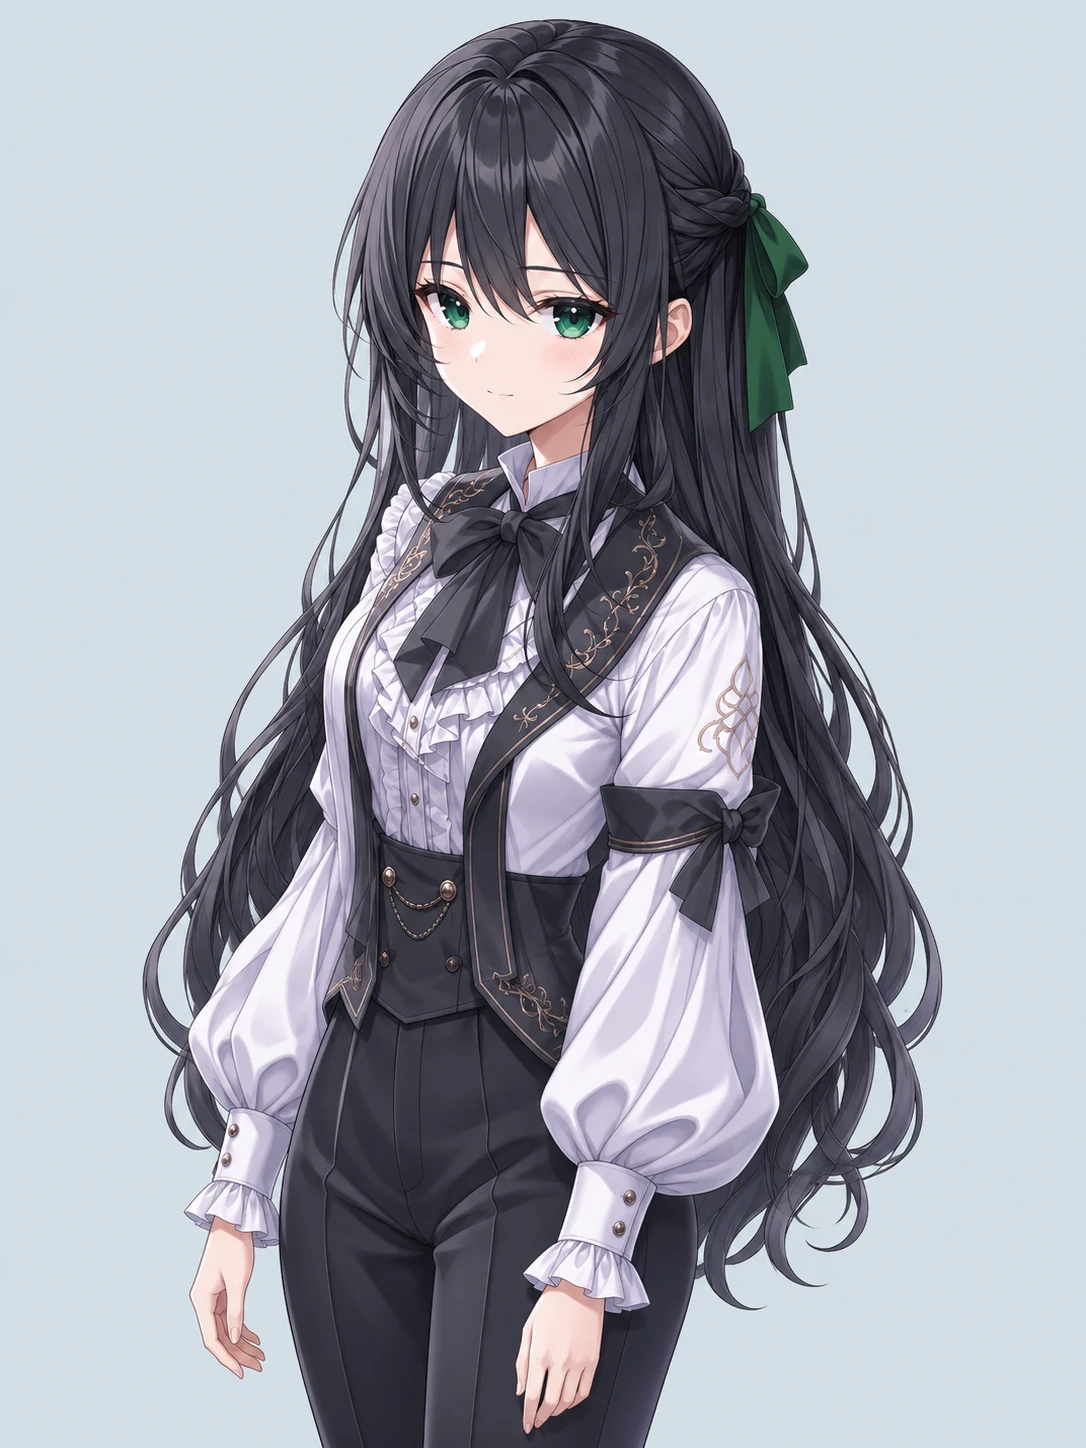
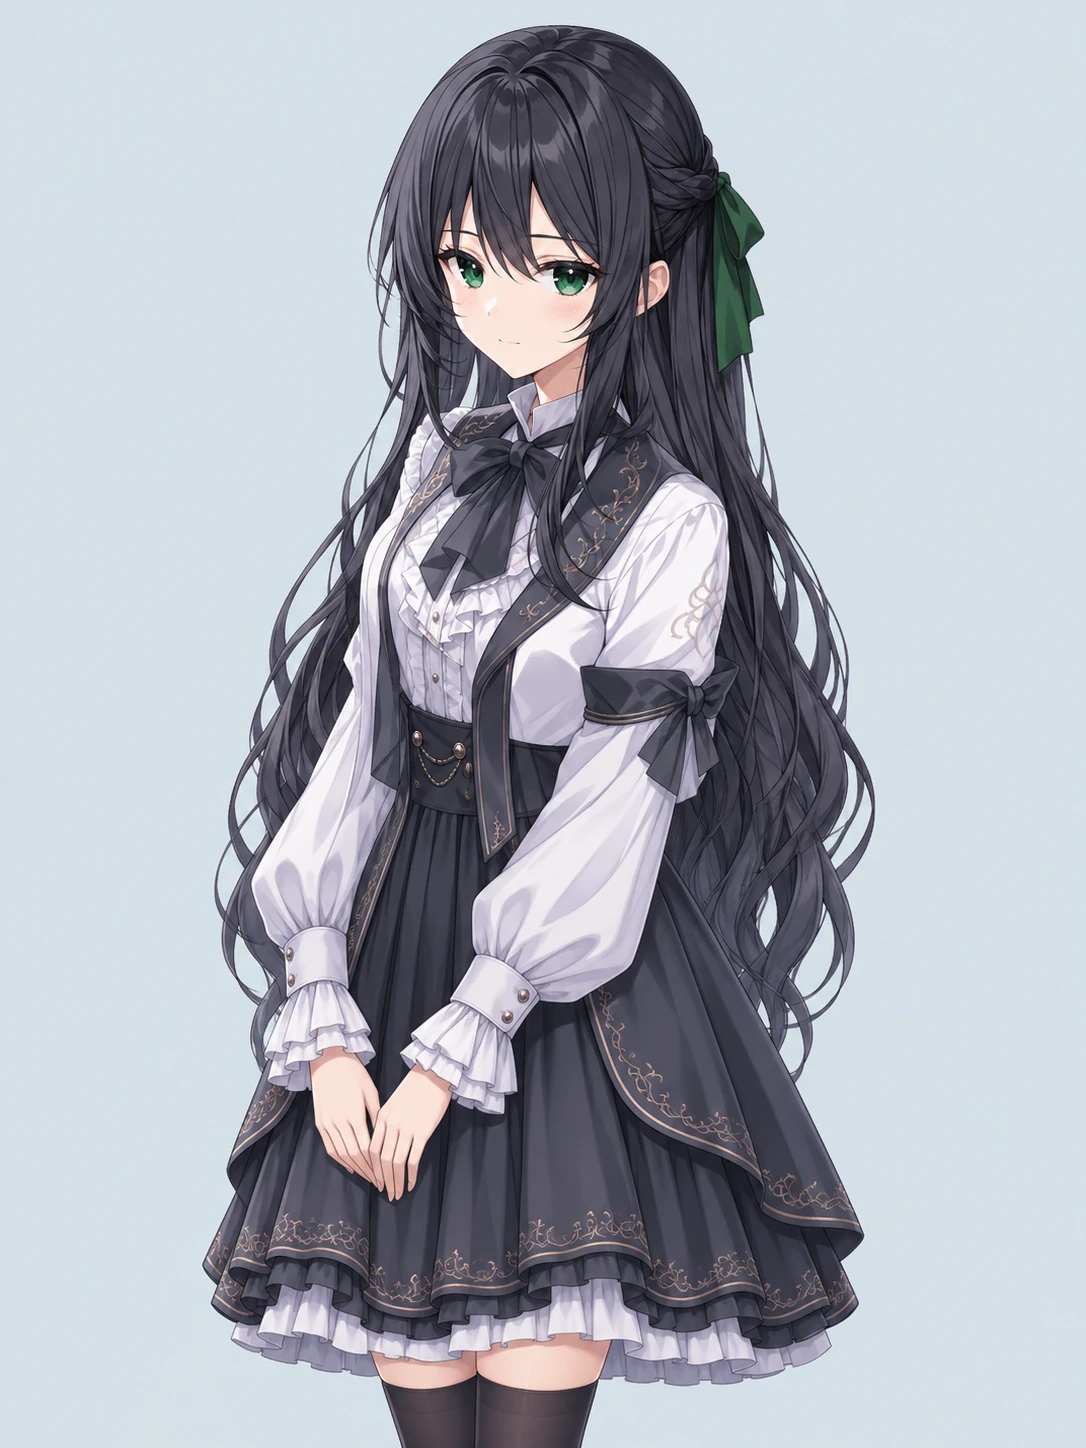
chore(preview): publish batch_1_tq_5chars three-quarter 5x5 portrait picker

diff --git a/portrait-picker/index.html b/portrait-picker/index.html
@@ -3,7 +3,7 @@
 <head>
 <meta charset="UTF-8">
 <meta name="viewport" content="width=device-width, initial-scale=1.0">
-<title>Batch 1B · 希尔维亚幼年/少年/伪装（中景 medium shot 实测 · 5 选 1）</title>
+<title>四分之三身像全重抽（5 角色 × 5 选 1）</title>
 <style>
 /* ==========================================================================
    《转生千金》立绘 5 选 1 交互审图工坊 · 棱镜冰晶雪瓷视觉体系
@@ -2172,7 +2172,7 @@ body.view-large .btn-zoom .zoom-txt {
 
 <div class="toast" id="toast" role="status" aria-live="polite"></div>
 
-<script id="showcase-data" type="application/json">{"batch_id":"batch_1b","batch_label":"Batch 1B","title":"Batch 1B · 希尔维亚幼年/少年/伪装（中景 medium shot 实测 · 5 选 1）","subtitle":"纯正向 medium shot 中景延展实测 · 原比例参考底图 · 伪装版 2× 高清重绘 · 每角 5 选 1","characters":[{"id":"sylvia_child_normal","name":"希尔维亚 · 幼年期","role_tag":"核心女主 · 幼年阶段","sample_line":"阿姐、爱丽丝，今天的红茶点心可以多拿一块吗？","original":{"src":"img/sylvia_child_normal/original.webp","defect":"原图 2:3 仅画至腰际裙头，袖口蝴蝶结卡在底边","metrics":{"width":1024,"height":1536,"aspect":"2:3","margin_l":10.4,"margin_r":10.0,"margin_t":3.3,"margin_b":0.0,"bg_std":0.0,"bg_hex":"transparent","is_transparent":true}},"candidates":[{"index":1,"label":"#01","src":"img/sylvia_child_normal/cand_01.webp","tag":"中景实测 #01","note":"纯正向 medium shot 中景自然延展","metrics":{"width":1086,"height":1448,"aspect":"3:4","margin_l":19.9,"margin_r":21.1,"margin_t":2.4,"margin_b":0.0,"bg_std":0.6,"bg_hex":"#BDD8F2","is_transparent":false}},{"index":2,"label":"#02","src":"img/sylvia_child_normal/cand_02.webp","tag":"中景实测 #02","note":"纯正向 medium shot 中景自然延展","metrics":{"width":1086,"height":1448,"aspect":"3:4","margin_l":19.1,"margin_r":20.5,"margin_t":1.6,"margin_b":0.0,"bg_std":0.6,"bg_hex":"#BFD9F3","is_transparent":false}},{"index":3,"label":"#03","src":"img/sylvia_child_normal/cand_03.webp","tag":"中景实测 #03","note":"纯正向 medium shot 中景自然延展","metrics":{"width":1086,"height":1448,"aspect":"3:4","margin_l":16.9,"margin_r":17.7,"margin_t":2.3,"margin_b":0.0,"bg_std":0.7,"bg_hex":"#C0DBF4","is_transparent":false}},{"index":4,"label":"#04","src":"img/sylvia_child_normal/cand_04.webp","tag":"中景实测 #04","note":"纯正向 medium shot 中景自然延展","metrics":{"width":1086,"height":1448,"aspect":"3:4","margin_l":18.1,"margin_r":19.2,"margin_t":1.4,"margin_b":0.0,"bg_std":0.6,"bg_hex":"#C0D9F2","is_transparent":false}},{"index":5,"label":"#05","src":"img/sylvia_child_normal/cand_05.webp","tag":"中景实测 #05","note":"纯正向 medium shot 中景自然延展","metrics":{"width":1086,"height":1448,"aspect":"3:4","margin_l":21.0,"margin_r":23.2,"margin_t":2.2,"margin_b":0.0,"bg_std":0.6,"bg_hex":"#BFD9F2","is_transparent":false}}]},{"id":"sylvia_young_normal","name":"希尔维亚 · 少年期","role_tag":"核心女主 · 少年阶段","sample_line":"冰晶的魔力回路其实很听话，只要静下心来引导就好。","original":{"src":"img/sylvia_young_normal/original.webp","defect":"原图仅到腰下，左右飘散银发丝与披肩边缘紧贴画框","metrics":{"width":1086,"height":1448,"aspect":"3:4","margin_l":1.5,"margin_r":1.8,"margin_t":2.9,"margin_b":0.0,"bg_std":0.0,"bg_hex":"transparent","is_transparent":true}},"candidates":[{"index":1,"label":"#01","src":"img/sylvia_young_normal/cand_01.webp","tag":"中景实测 #01","note":"纯正向 medium shot 中景自然延展","metrics":{"width":1086,"height":1448,"aspect":"3:4","margin_l":11.6,"margin_r":13.4,"margin_t":1.6,"margin_b":0.0,"bg_std":0.6,"bg_hex":"#BFD9F2","is_transparent":false}},{"index":2,"label":"#02","src":"img/sylvia_young_normal/cand_02.webp","tag":"中景实测 #02","note":"纯正向 medium shot 中景自然延展","metrics":{"width":1086,"height":1448,"aspect":"3:4","margin_l":7.8,"margin_r":7.9,"margin_t":1.9,"margin_b":0.0,"bg_std":0.6,"bg_hex":"#C0D9F3","is_transparent":false}},{"index":3,"label":"#03","src":"img/sylvia_young_normal/cand_03.webp","tag":"中景实测 #03","note":"纯正向 medium shot 中景自然延展","metrics":{"width":1086,"height":1448,"aspect":"3:4","margin_l":11.8,"margin_r":14.5,"margin_t":0.8,"margin_b":0.0,"bg_std":0.6,"bg_hex":"#C0D9F2","is_transparent":false}},{"index":4,"label":"#04","src":"img/sylvia_young_normal/cand_04.webp","tag":"中景实测 #04","note":"纯正向 medium shot 中景自然延展","metrics":{"width":1086,"height":1448,"aspect":"3:4","margin_l":12.4,"margin_r":15.5,"margin_t":2.8,"margin_b":0.0,"bg_std":0.6,"bg_hex":"#C0DAF4","is_transparent":false}},{"index":5,"label":"#05","src":"img/sylvia_young_normal/cand_05.webp","tag":"中景实测 #05","note":"纯正向 medium shot 中景自然延展","metrics":{"width":1086,"height":1448,"aspect":"3:4","margin_l":8.8,"margin_r":12.7,"margin_t":2.1,"margin_b":0.0,"bg_std":0.6,"bg_hex":"#C2DBF3","is_transparent":false}}]},{"id":"sylvia_disguise_normal","name":"希尔维亚 · 伪装（眷寒渔）","role_tag":"核心女主 · 黑发绿瞳变装","sample_line":"在外行走，还是低调些省事。叫我寒渔就行。","original":{"src":"img/sylvia_disguise_normal/original.webp","defect":"原图为 573×768 低分索引色 PNG，锯齿明显且左右黑发硬裁","metrics":{"width":573,"height":768,"aspect":"3:4","margin_l":0.0,"margin_r":0.0,"margin_t":2.3,"margin_b":0.0,"bg_std":0.0,"bg_hex":"transparent","is_transparent":true}},"candidates":[{"index":1,"label":"#01","src":"img/sylvia_disguise_normal/cand_01.webp","tag":"中景实测 #01","note":"纯正向 medium shot 中景延展 · 2× 高清化重绘","metrics":{"width":1086,"height":1448,"aspect":"3:4","margin_l":12.9,"margin_r":12.4,"margin_t":1.7,"margin_b":0.0,"bg_std":0.6,"bg_hex":"#D3DEE6","is_transparent":false}},{"index":2,"label":"#02","src":"img/sylvia_disguise_normal/cand_02.webp","tag":"中景实测 #02","note":"纯正向 medium shot 中景延展 · 2× 高清化重绘","metrics":{"width":1086,"height":1448,"aspect":"3:4","margin_l":14.5,"margin_r":14.1,"margin_t":1.2,"margin_b":0.0,"bg_std":0.6,"bg_hex":"#D3DEE5","is_transparent":false}},{"index":3,"label":"#03","src":"img/sylvia_disguise_normal/cand_03.webp","tag":"中景实测 #03","note":"纯正向 medium shot 中景延展 · 2× 高清化重绘","metrics":{"width":1086,"height":1448,"aspect":"3:4","margin_l":13.1,"margin_r":13.2,"margin_t":1.2,"margin_b":0.0,"bg_std":0.6,"bg_hex":"#D3DEE5","is_transparent":false}},{"index":4,"label":"#04","src":"img/sylvia_disguise_normal/cand_04.webp","tag":"中景实测 #04","note":"纯正向 medium shot 中景延展 · 2× 高清化重绘","metrics":{"width":1086,"height":1448,"aspect":"3:4","margin_l":12.8,"margin_r":12.4,"margin_t":1.7,"margin_b":0.0,"bg_std":0.6,"bg_hex":"#D5DFE6","is_transparent":false}},{"index":5,"label":"#05","src":"img/sylvia_disguise_normal/cand_05.webp","tag":"中景实测 #05","note":"纯正向 medium shot 中景延展 · 2× 高清化重绘","metrics":{"width":1086,"height":1448,"aspect":"3:4","margin_l":14.9,"margin_r":13.8,"margin_t":2.0,"margin_b":0.0,"bg_std":0.6,"bg_hex":"#D3DEE6","is_transparent":false}}]}]}</script>
+<script id="showcase-data" type="application/json">{"batch_id":"batch_1_tq_5chars","batch_label":"四分之三身像 · 5角×5选1","title":"四分之三身像全重抽（5 角色 × 5 选 1）","subtitle":"统一 three-quarter length portrait 纯正向提示词 · 全量 5 角色 25 候选（含同源少年期）","characters":[{"id":"sylvia_teenage_normal","name":"希尔维亚 · 少女期","role_tag":"核心女主 · 少女阶段","sample_line":"既然重活一世，这一生总该按自己的步调，悠闲地过日子才对。","original":{"src":"img/sylvia_teenage_normal/original.webp","defect":"原图仅到束腰上半截，左右披发与白袖硬裁","metrics":{"width":1086,"height":1448,"aspect":"3:4","margin_l":0.0,"margin_r":0.0,"margin_t":2.3,"margin_b":0.0,"bg_std":0.0,"bg_hex":"transparent","is_transparent":true}},"candidates":[{"index":1,"label":"#01","src":"img/sylvia_teenage_normal/cand_01.webp","tag":"四分之三身像 #01","note":"纯正向 three-quarter length portrait 四分之三身像自然延展","metrics":{"width":1086,"height":1448,"aspect":"3:4","margin_l":15.4,"margin_r":15.4,"margin_t":1.3,"margin_b":0.0,"bg_std":0.6,"bg_hex":"#BCD6EF","is_transparent":false}},{"index":2,"label":"#02","src":"img/sylvia_teenage_normal/cand_02.webp","tag":"四分之三身像 #02","note":"纯正向 three-quarter length portrait 四分之三身像自然延展","metrics":{"width":1086,"height":1448,"aspect":"3:4","margin_l":16.3,"margin_r":15.6,"margin_t":1.1,"margin_b":0.0,"bg_std":0.7,"bg_hex":"#BAD6EF","is_transparent":false}},{"index":3,"label":"#03","src":"img/sylvia_teenage_normal/cand_03.webp","tag":"四分之三身像 #03","note":"纯正向 three-quarter length portrait 四分之三身像自然延展","metrics":{"width":1086,"height":1448,"aspect":"3:4","margin_l":17.2,"margin_r":16.3,"margin_t":2.1,"margin_b":0.0,"bg_std":0.6,"bg_hex":"#BCD7F1","is_transparent":false}},{"index":4,"label":"#04","src":"img/sylvia_teenage_normal/cand_04.webp","tag":"四分之三身像 #04","note":"纯正向 three-quarter length portrait 四分之三身像自然延展","metrics":{"width":1086,"height":1448,"aspect":"3:4","margin_l":12.4,"margin_r":12.8,"margin_t":1.4,"margin_b":0.0,"bg_std":0.6,"bg_hex":"#BAD7F1","is_transparent":false}},{"index":5,"label":"#05","src":"img/sylvia_teenage_normal/cand_05.webp","tag":"四分之三身像 #05","note":"纯正向 three-quarter length portrait 四分之三身像自然延展","metrics":{"width":1086,"height":1448,"aspect":"3:4","margin_l":17.2,"margin_r":16.5,"margin_t":1.8,"margin_b":0.0,"bg_std":0.6,"bg_hex":"#B9D5F0","is_transparent":false}}]},{"id":"alice_teenage_normal","name":"爱丽丝 · 少女期","role_tag":"公爵次女 · 少女阶段","sample_line":"姐姐，今天的风有些凉，披肩记得系紧些再出门。","original":{"src":"img/alice_teenage_normal/original.webp","defect":"原图仅胸上/高腰裁切，白纱蓬袖逼近左右边界","metrics":{"width":1086,"height":1448,"aspect":"3:4","margin_l":1.5,"margin_r":2.4,"margin_t":4.3,"margin_b":0.0,"bg_std":0.0,"bg_hex":"transparent","is_transparent":true}},"candidates":[{"index":1,"label":"#01","src":"img/alice_teenage_normal/cand_01.webp","tag":"四分之三身像 #01","note":"纯正向 three-quarter length portrait 四分之三身像自然延展","metrics":{"width":1086,"height":1448,"aspect":"3:4","margin_l":16.6,"margin_r":17.7,"margin_t":1.5,"margin_b":0.0,"bg_std":0.6,"bg_hex":"#BCD6F1","is_transparent":false}},{"index":2,"label":"#02","src":"img/alice_teenage_normal/cand_02.webp","tag":"四分之三身像 #02","note":"纯正向 three-quarter length portrait 四分之三身像自然延展","metrics":{"width":1086,"height":1448,"aspect":"3:4","margin_l":14.8,"margin_r":15.6,"margin_t":1.2,"margin_b":0.0,"bg_std":0.6,"bg_hex":"#BED8F0","is_transparent":false}},{"index":3,"label":"#03","src":"img/alice_teenage_normal/cand_03.webp","tag":"四分之三身像 #03","note":"纯正向 three-quarter length portrait 四分之三身像自然延展","metrics":{"width":1086,"height":1448,"aspect":"3:4","margin_l":15.1,"margin_r":16.7,"margin_t":1.2,"margin_b":0.0,"bg_std":0.6,"bg_hex":"#BED7F0","is_transparent":false}},{"index":4,"label":"#04","src":"img/alice_teenage_normal/cand_04.webp","tag":"四分之三身像 #04","note":"纯正向 three-quarter length portrait 四分之三身像自然延展","metrics":{"width":1086,"height":1448,"aspect":"3:4","margin_l":14.9,"margin_r":16.3,"margin_t":2.1,"margin_b":0.0,"bg_std":0.6,"bg_hex":"#BFD7F0","is_transparent":false}},{"index":5,"label":"#05","src":"img/alice_teenage_normal/cand_05.webp","tag":"四分之三身像 #05","note":"纯正向 three-quarter length portrait 四分之三身像自然延展","metrics":{"width":1086,"height":1448,"aspect":"3:4","margin_l":15.0,"margin_r":15.7,"margin_t":1.5,"margin_b":0.0,"bg_std":0.6,"bg_hex":"#BED8F1","is_transparent":false}}]},{"id":"beatrice_teenage_normal","name":"贝阿特丽丝 · 少女期","role_tag":"公爵长女 · 少女阶段","sample_line":"哈哈，既然是学院比试，可不许对我手下留情哦！","original":{"src":"img/beatrice_teenage_normal/original.webp","defect":"原图为 1:1 方画幅，顶边仅 4px 险切高马尾与王冠，腰下与双袖斜切","metrics":{"width":1254,"height":1254,"aspect":"1:1","margin_l":12.4,"margin_r":5.7,"margin_t":0.4,"margin_b":0.0,"bg_std":0.0,"bg_hex":"transparent","is_transparent":true}},"candidates":[{"index":1,"label":"#01","src":"img/beatrice_teenage_normal/cand_01.webp","tag":"四分之三身像 #01","note":"纯正向 three-quarter length portrait 四分之三身像自然延展（顶边+6%防切王冠）","metrics":{"width":1086,"height":1448,"aspect":"3:4","margin_l":14.0,"margin_r":9.9,"margin_t":2.8,"margin_b":0.0,"bg_std":0.6,"bg_hex":"#E1D4BF","is_transparent":false}},{"index":2,"label":"#02","src":"img/beatrice_teenage_normal/cand_02.webp","tag":"四分之三身像 #02","note":"纯正向 three-quarter length portrait 四分之三身像自然延展（顶边+6%防切王冠）","metrics":{"width":1086,"height":1448,"aspect":"3:4","margin_l":6.7,"margin_r":6.0,"margin_t":2.9,"margin_b":0.0,"bg_std":0.6,"bg_hex":"#E1D3BE","is_transparent":false}},{"index":3,"label":"#03","src":"img/beatrice_teenage_normal/cand_03.webp","tag":"四分之三身像 #03","note":"纯正向 three-quarter length portrait 四分之三身像自然延展（顶边+6%防切王冠）","metrics":{"width":1086,"height":1448,"aspect":"3:4","margin_l":8.7,"margin_r":13.4,"margin_t":3.0,"margin_b":0.0,"bg_std":0.7,"bg_hex":"#E1D3BE","is_transparent":false}},{"index":4,"label":"#04","src":"img/beatrice_teenage_normal/cand_04.webp","tag":"四分之三身像 #04","note":"纯正向 three-quarter length portrait 四分之三身像自然延展（顶边+6%防切王冠）","metrics":{"width":1086,"height":1448,"aspect":"3:4","margin_l":10.6,"margin_r":13.7,"margin_t":2.7,"margin_b":0.0,"bg_std":0.7,"bg_hex":"#E1D3BF","is_transparent":false}},{"index":5,"label":"#05","src":"img/beatrice_teenage_normal/cand_05.webp","tag":"四分之三身像 #05","note":"纯正向 three-quarter length portrait 四分之三身像自然延展（顶边+6%防切王冠）","metrics":{"width":1086,"height":1448,"aspect":"3:4","margin_l":10.5,"margin_r":11.0,"margin_t":3.1,"margin_b":0.0,"bg_std":0.7,"bg_hex":"#E0D3BE","is_transparent":false}}]},{"id":"sylvia_young_normal","name":"希尔维亚 · 少年期","role_tag":"核心女主 · 少年阶段","sample_line":"冰晶的魔力回路其实很听话，只要静下心来引导就好。","original":{"src":"img/sylvia_young_normal/original.webp","defect":"原图仅到腰下，左右飘散银发丝与披肩边缘紧贴画框","metrics":{"width":1086,"height":1448,"aspect":"3:4","margin_l":1.5,"margin_r":1.8,"margin_t":2.9,"margin_b":0.0,"bg_std":0.0,"bg_hex":"transparent","is_transparent":true}},"candidates":[{"index":1,"label":"#01","src":"img/sylvia_young_normal/cand_01.webp","tag":"四分之三身像 #01","note":"纯正向 three-quarter length portrait 四分之三身像自然延展（同源直引）","metrics":{"width":1086,"height":1448,"aspect":"3:4","margin_l":16.0,"margin_r":18.5,"margin_t":2.1,"margin_b":0.0,"bg_std":0.6,"bg_hex":"#C0DAF3","is_transparent":false}},{"index":2,"label":"#02","src":"img/sylvia_young_normal/cand_02.webp","tag":"四分之三身像 #02","note":"纯正向 three-quarter length portrait 四分之三身像自然延展（同源直引）","metrics":{"width":1086,"height":1448,"aspect":"3:4","margin_l":14.7,"margin_r":16.8,"margin_t":1.9,"margin_b":0.0,"bg_std":0.6,"bg_hex":"#C1DAF4","is_transparent":false}},{"index":3,"label":"#03","src":"img/sylvia_young_normal/cand_03.webp","tag":"四分之三身像 #03","note":"纯正向 three-quarter length portrait 四分之三身像自然延展（同源直引）","metrics":{"width":1086,"height":1448,"aspect":"3:4","margin_l":15.9,"margin_r":17.3,"margin_t":1.9,"margin_b":0.0,"bg_std":0.6,"bg_hex":"#C2DAF1","is_transparent":false}},{"index":4,"label":"#04","src":"img/sylvia_young_normal/cand_04.webp","tag":"四分之三身像 #04","note":"纯正向 three-quarter length portrait 四分之三身像自然延展（同源直引）","metrics":{"width":1086,"height":1448,"aspect":"3:4","margin_l":13.0,"margin_r":15.0,"margin_t":1.8,"margin_b":0.0,"bg_std":0.6,"bg_hex":"#C0DAF2","is_transparent":false}},{"index":5,"label":"#05","src":"img/sylvia_young_normal/cand_05.webp","tag":"四分之三身像 #05","note":"纯正向 three-quarter length portrait 四分之三身像自然延展（同源直引）","metrics":{"width":1086,"height":1448,"aspect":"3:4","margin_l":14.5,"margin_r":17.9,"margin_t":2.0,"margin_b":0.0,"bg_std":0.6,"bg_hex":"#BFD9F3","is_transparent":false}}]},{"id":"sylvia_disguise_normal","name":"希尔维亚 · 伪装（眷寒渔）","role_tag":"核心女主 · 黑发绿瞳变装","sample_line":"在外行走，还是低调些省事。叫我寒渔就行。","original":{"src":"img/sylvia_disguise_normal/original.webp","defect":"原图为 573×768 低分索引色 PNG，锯齿明显且左右黑发硬裁","metrics":{"width":573,"height":768,"aspect":"3:4","margin_l":0.0,"margin_r":0.0,"margin_t":2.3,"margin_b":0.0,"bg_std":0.0,"bg_hex":"transparent","is_transparent":true}},"candidates":[{"index":1,"label":"#01","src":"img/sylvia_disguise_normal/cand_01.webp","tag":"四分之三身像 #01","note":"纯正向 three-quarter length portrait 四分之三身像延展 · 2× 高清化重绘","metrics":{"width":1086,"height":1448,"aspect":"3:4","margin_l":21.6,"margin_r":22.7,"margin_t":1.7,"margin_b":0.0,"bg_std":0.6,"bg_hex":"#D5DFE7","is_transparent":false}},{"index":2,"label":"#02","src":"img/sylvia_disguise_normal/cand_02.webp","tag":"四分之三身像 #02","note":"纯正向 three-quarter length portrait 四分之三身像延展 · 2× 高清化重绘","metrics":{"width":1086,"height":1448,"aspect":"3:4","margin_l":18.4,"margin_r":19.4,"margin_t":2.0,"margin_b":0.0,"bg_std":0.6,"bg_hex":"#D4DFE7","is_transparent":false}},{"index":3,"label":"#03","src":"img/sylvia_disguise_normal/cand_03.webp","tag":"四分之三身像 #03","note":"纯正向 three-quarter length portrait 四分之三身像延展 · 2× 高清化重绘","metrics":{"width":1086,"height":1448,"aspect":"3:4","margin_l":18.6,"margin_r":19.3,"margin_t":1.7,"margin_b":0.0,"bg_std":0.6,"bg_hex":"#D5DFE7","is_transparent":false}},{"index":4,"label":"#04","src":"img/sylvia_disguise_normal/cand_04.webp","tag":"四分之三身像 #04","note":"纯正向 three-quarter length portrait 四分之三身像延展 · 2× 高清化重绘","metrics":{"width":1086,"height":1448,"aspect":"3:4","margin_l":19.2,"margin_r":16.9,"margin_t":1.5,"margin_b":0.0,"bg_std":0.6,"bg_hex":"#D1DEE6","is_transparent":false}},{"index":5,"label":"#05","src":"img/sylvia_disguise_normal/cand_05.webp","tag":"四分之三身像 #05","note":"纯正向 three-quarter length portrait 四分之三身像延展 · 2× 高清化重绘","metrics":{"width":1086,"height":1448,"aspect":"3:4","margin_l":18.1,"margin_r":19.8,"margin_t":1.2,"margin_b":0.0,"bg_std":0.6,"bg_hex":"#D4DFE6","is_transparent":false}}]}]}</script>
 <script>
 (function () {
   "use strict";
